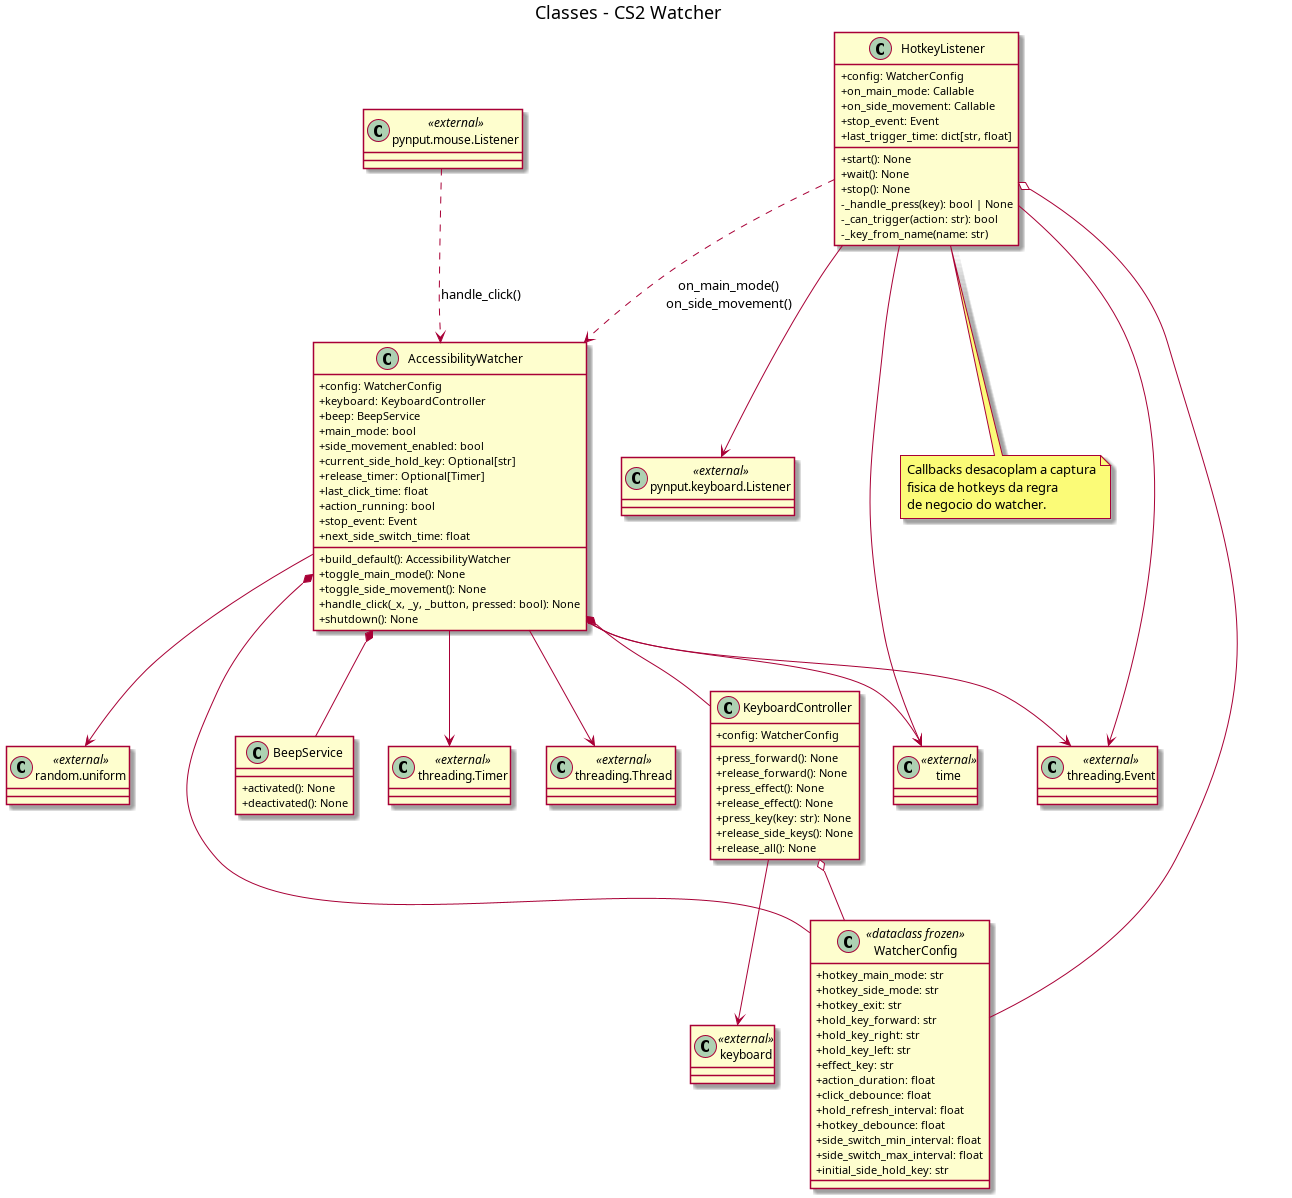
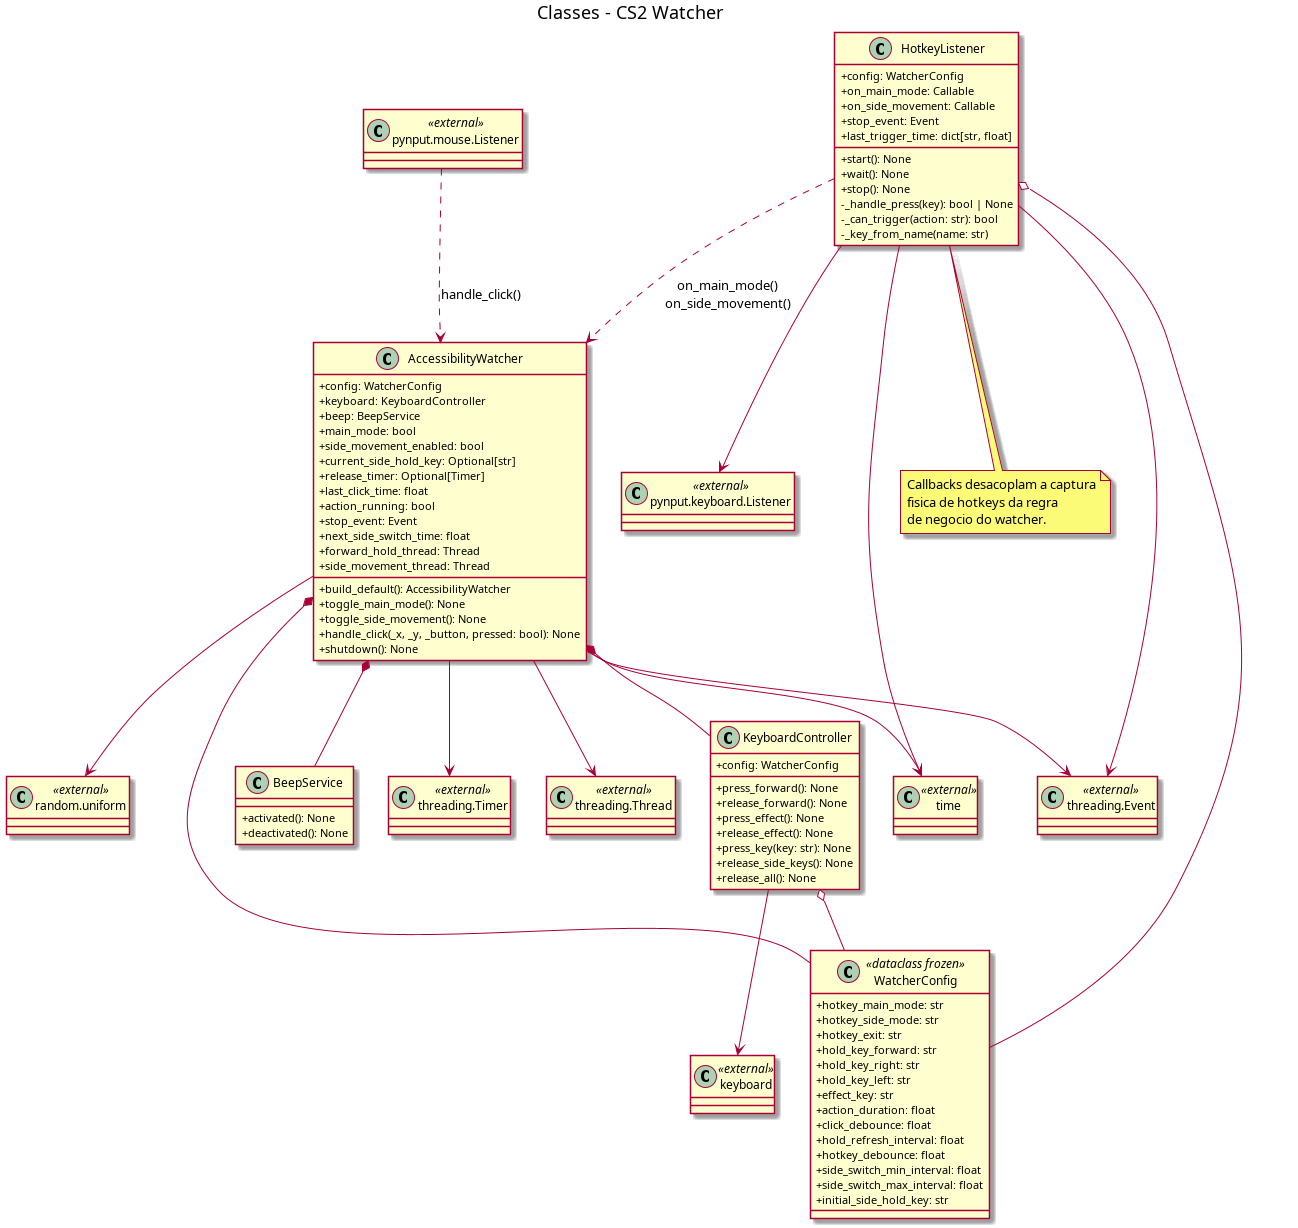
fix: separa threads de movimento

diff --git a/cs2watcher/watcher.py b/cs2watcher/watcher.py
@@ -35,11 +35,16 @@ class AccessibilityWatcher:
         self.stop_event = threading.Event()
         self.next_side_switch_time = 0.0
 
-        self.hold_refresh_thread = threading.Thread(
-            target=self._hold_refresh_loop,
+        self.forward_hold_thread = threading.Thread(
+            target=self._forward_hold_loop,
             daemon=True,
         )
-        self.hold_refresh_thread.start()
+        self.side_movement_thread = threading.Thread(
+            target=self._side_movement_loop,
+            daemon=True,
+        )
+        self.forward_hold_thread.start()
+        self.side_movement_thread.start()
 
     @classmethod
     def build_default(cls) -> "AccessibilityWatcher":
@@ -134,7 +139,6 @@ class AccessibilityWatcher:
     def _disable_side_movement(self) -> None:
         print("Movimento lateral desativado")
         self._release_side_hold_keys()
-        self._keep_forward_pressed()
         self.next_side_switch_time = 0.0
         self.beep.deactivated()
 
@@ -186,14 +190,21 @@ class AccessibilityWatcher:
         self._press_side_hold_key(next_side_key)
         self._schedule_next_side_switch()
 
-    def _hold_refresh_loop(self) -> None:
-        # alguns jogos perdem holds artificiais; o refresh mantem o estado.
+    def _forward_hold_loop(self) -> None:
+        # thread dedicada: W fica isolado da alternancia lateral.
+        while not self.stop_event.is_set():
+            with self.lock:
+                self._keep_forward_pressed()
+
+            time.sleep(self.config.hold_refresh_interval)
+
+    def _side_movement_loop(self) -> None:
+        # thread dedicada: A/D alterna sem controlar o hold de W.
         while not self.stop_event.is_set():
             with self.lock:
                 if self.main_mode and not self.action_running:
                     self._refresh_side_hold()
                     self._switch_side_when_due()
-                    self._keep_forward_pressed()
 
             time.sleep(self.config.hold_refresh_interval)
 
@@ -213,7 +224,6 @@ class AccessibilityWatcher:
         self._release_side_hold_keys()
         self.keyboard.press_key(key)
         self.current_side_hold_key = key
-        self._keep_forward_pressed()
 
         print(f"HOLD lateral atual: [{key.upper()}]")
 

diff --git a/README.md b/README.md
@@ -19,7 +19,7 @@ O projeto separa a regra de negocio da integracao com teclado, mouse e hotkeys, 
 - Alternancia lateral com intervalo variavel entre `0.5s` e `1.0s` por padrao.
 - Ao clicar, solta `W/A/D`, pressiona `CTRL` por `0.8s` e restaura o movimento.
 - Debounce para evitar acionamentos duplicados de hotkeys e cliques.
-- Thread de refresh para reaplicar holds artificiais quando necessario.
+- Threads separadas para reaplicar `W` e alternar `A/D` sem conflito.
 
 ## Estrutura
 
@@ -195,7 +195,7 @@ plantuml -tpng docs/*.puml
 2. A aplicacao cria o `AccessibilityWatcher`, o listener de mouse e o `HotkeyListener`.
 3. Ao pressionar `F8`, o modo principal e ativado.
 4. O watcher pressiona `W` e, se o movimento lateral estiver ativo, pressiona `D`.
-5. A thread de refresh mantem os holds artificiais ativos.
+5. Uma thread dedicada mantem `W` pressionado enquanto `CTRL` nao esta ativo.
 6. Quando o intervalo lateral vence, o watcher alterna entre `A` e `D` e agenda o proximo intervalo.
 7. Ao clicar, o watcher solta `W/A/D`, pressiona `CTRL` por `0.8s` e restaura `W` e a lateral.
 8. Ao pressionar `ESC`, a aplicacao encerra e solta todas as teclas.

diff --git a/PROMPT_PLANTUML.md b/PROMPT_PLANTUML.md
@@ -84,8 +84,10 @@ Arquivos e responsabilidades:
   - `stop_event`
   - `lock`
   - `next_side_switch_time`
-  - `hold_refresh_thread`
-- `_hold_refresh_loop()` reaplica W, reaplica a lateral atual e chama `_switch_side_when_due()`.
+  - `forward_hold_thread`
+  - `side_movement_thread`
+- `_forward_hold_loop()` mantem W pressionado enquanto o modo principal esta ativo e CTRL nao esta ativo.
+- `_side_movement_loop()` reaplica a lateral atual e chama `_switch_side_when_due()`.
 - `_switch_side_when_due()` alterna entre A e D quando o intervalo vence.
 - `_schedule_next_side_switch()` agenda o proximo intervalo com `random.uniform(0.5, 1.0)`.
 - `handle_click()` solta W/A/D, pressiona CTRL por 0.8s e restaura o movimento.
